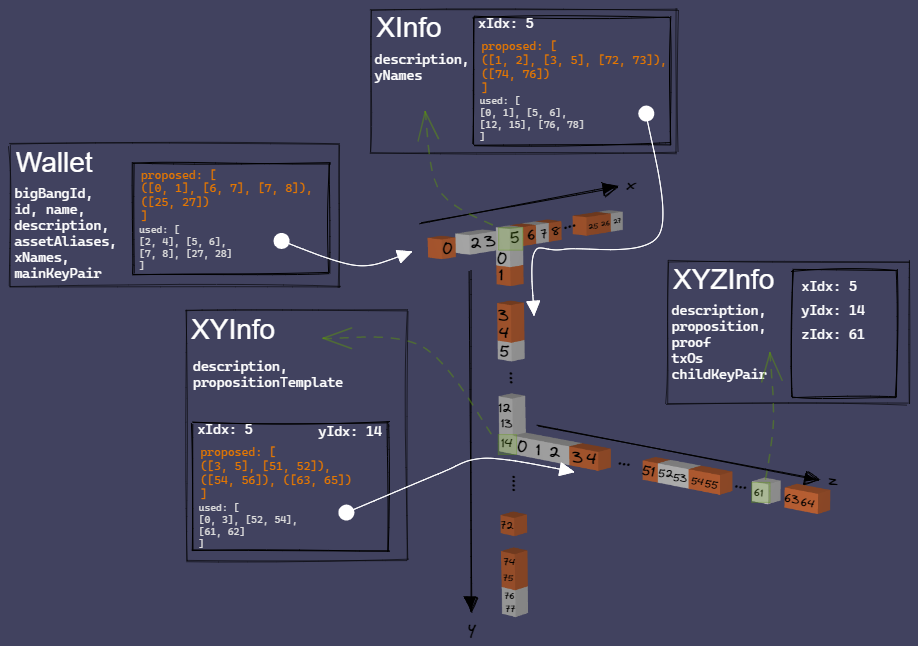
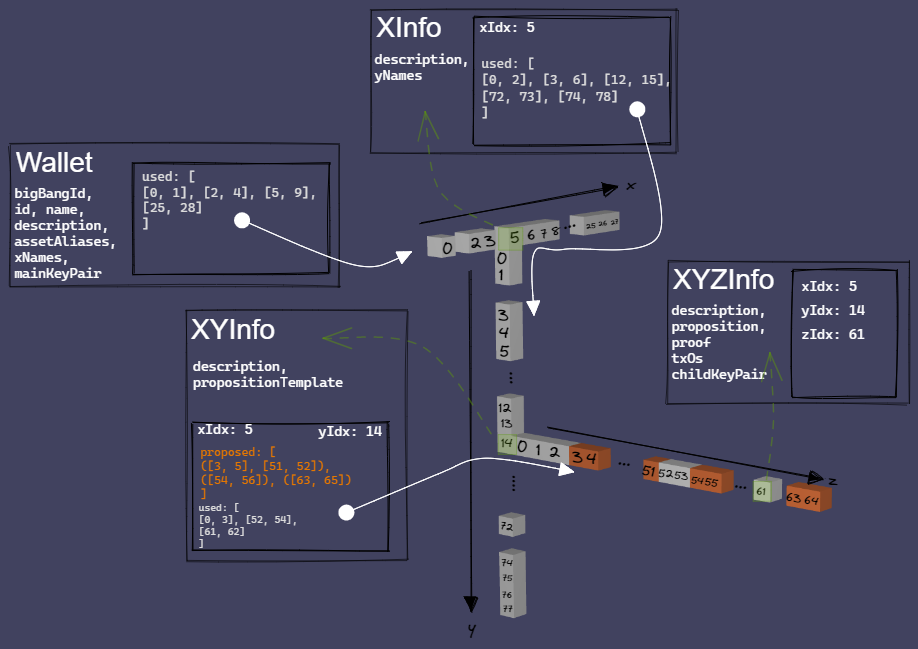
Addressed PR comments. 1) Removed proposed list from Wallet and X 2) Updated diagram to reflect this 3) Updated comments 4) Added summary explaining the diagram in the README

diff --git a/README.md b/README.md
@@ -5,7 +5,7 @@ Protobuf specifications and definitions representing blockchain data types and c
 ## Quick Start
 
 1. Install [protoc](https://developers.google.com/protocol-buffers/docs/downloads#release-packages)
-2. Run `run_protocol_compilers.md`
+2. Run `run_protocol_compilers.cmd`
 
 
 ## Wallet Visualization
@@ -13,3 +13,20 @@ Protobuf specifications and definitions representing blockchain data types and c
 The following is a visualization of how the wallet will utilize a trie structure to manage chunks of used and proposed indices.
 
 ![Wallet 3D Diagram](./user-index-visualization.png)
+
+The Wallet is the top layer. Alongside additional information, it contains a list of chunks of x-layer indices that are in use. 
+For example, in the diagram, chunk [5, 9] denotes that indices 5, 6, 7 and 8 are being used (have been assigned a purpose).
+
+Alongside additional information (XInfo), each x-layer index that is in use contains its own list of chunks of xy-layer indices that are in use.
+For example, in the diagram, chunk [12, 15] denotes that, for x=5, indices 12, 13, and 14 are being used (have been assigned a purpose).
+
+Alongside additional information (XYInfo), each xy-layer index that is in use contains two lists: used and proposed. 
+The `used` list contains chunks of xyz-layer indices that are in use.
+For example, in the diagram, chunk [61, 62] denotes that, for x=5 and y=14, index 61 is being used (has been exposed on the blockchain or to a third party).
+The `proposed` list contains groupings of chunks of xyz-layer indices that have been proposed to be exposed. Each grouping contains the indices that have been negotiated together.
+For example, in the diagram, the grouping of chunks ([3, 5], [51, 52]) denotes that, for x=5 and y=14, indices 3, 4, and 51 have been proposed to be used. 
+Once an index from a proposed grouping has been chosen, the other indices within the grouping can be released.
+For example, if index 3 was chosen, the grouping ([3, 5], [51, 52]) is removed from the proposed list and 3 is added to the used list. 
+In this case, chunk [0, 3] gets updated to [0, 4] in the used list.
+
+Additional information only exists for xyz-layer indices that are in use (XYZInfo).
